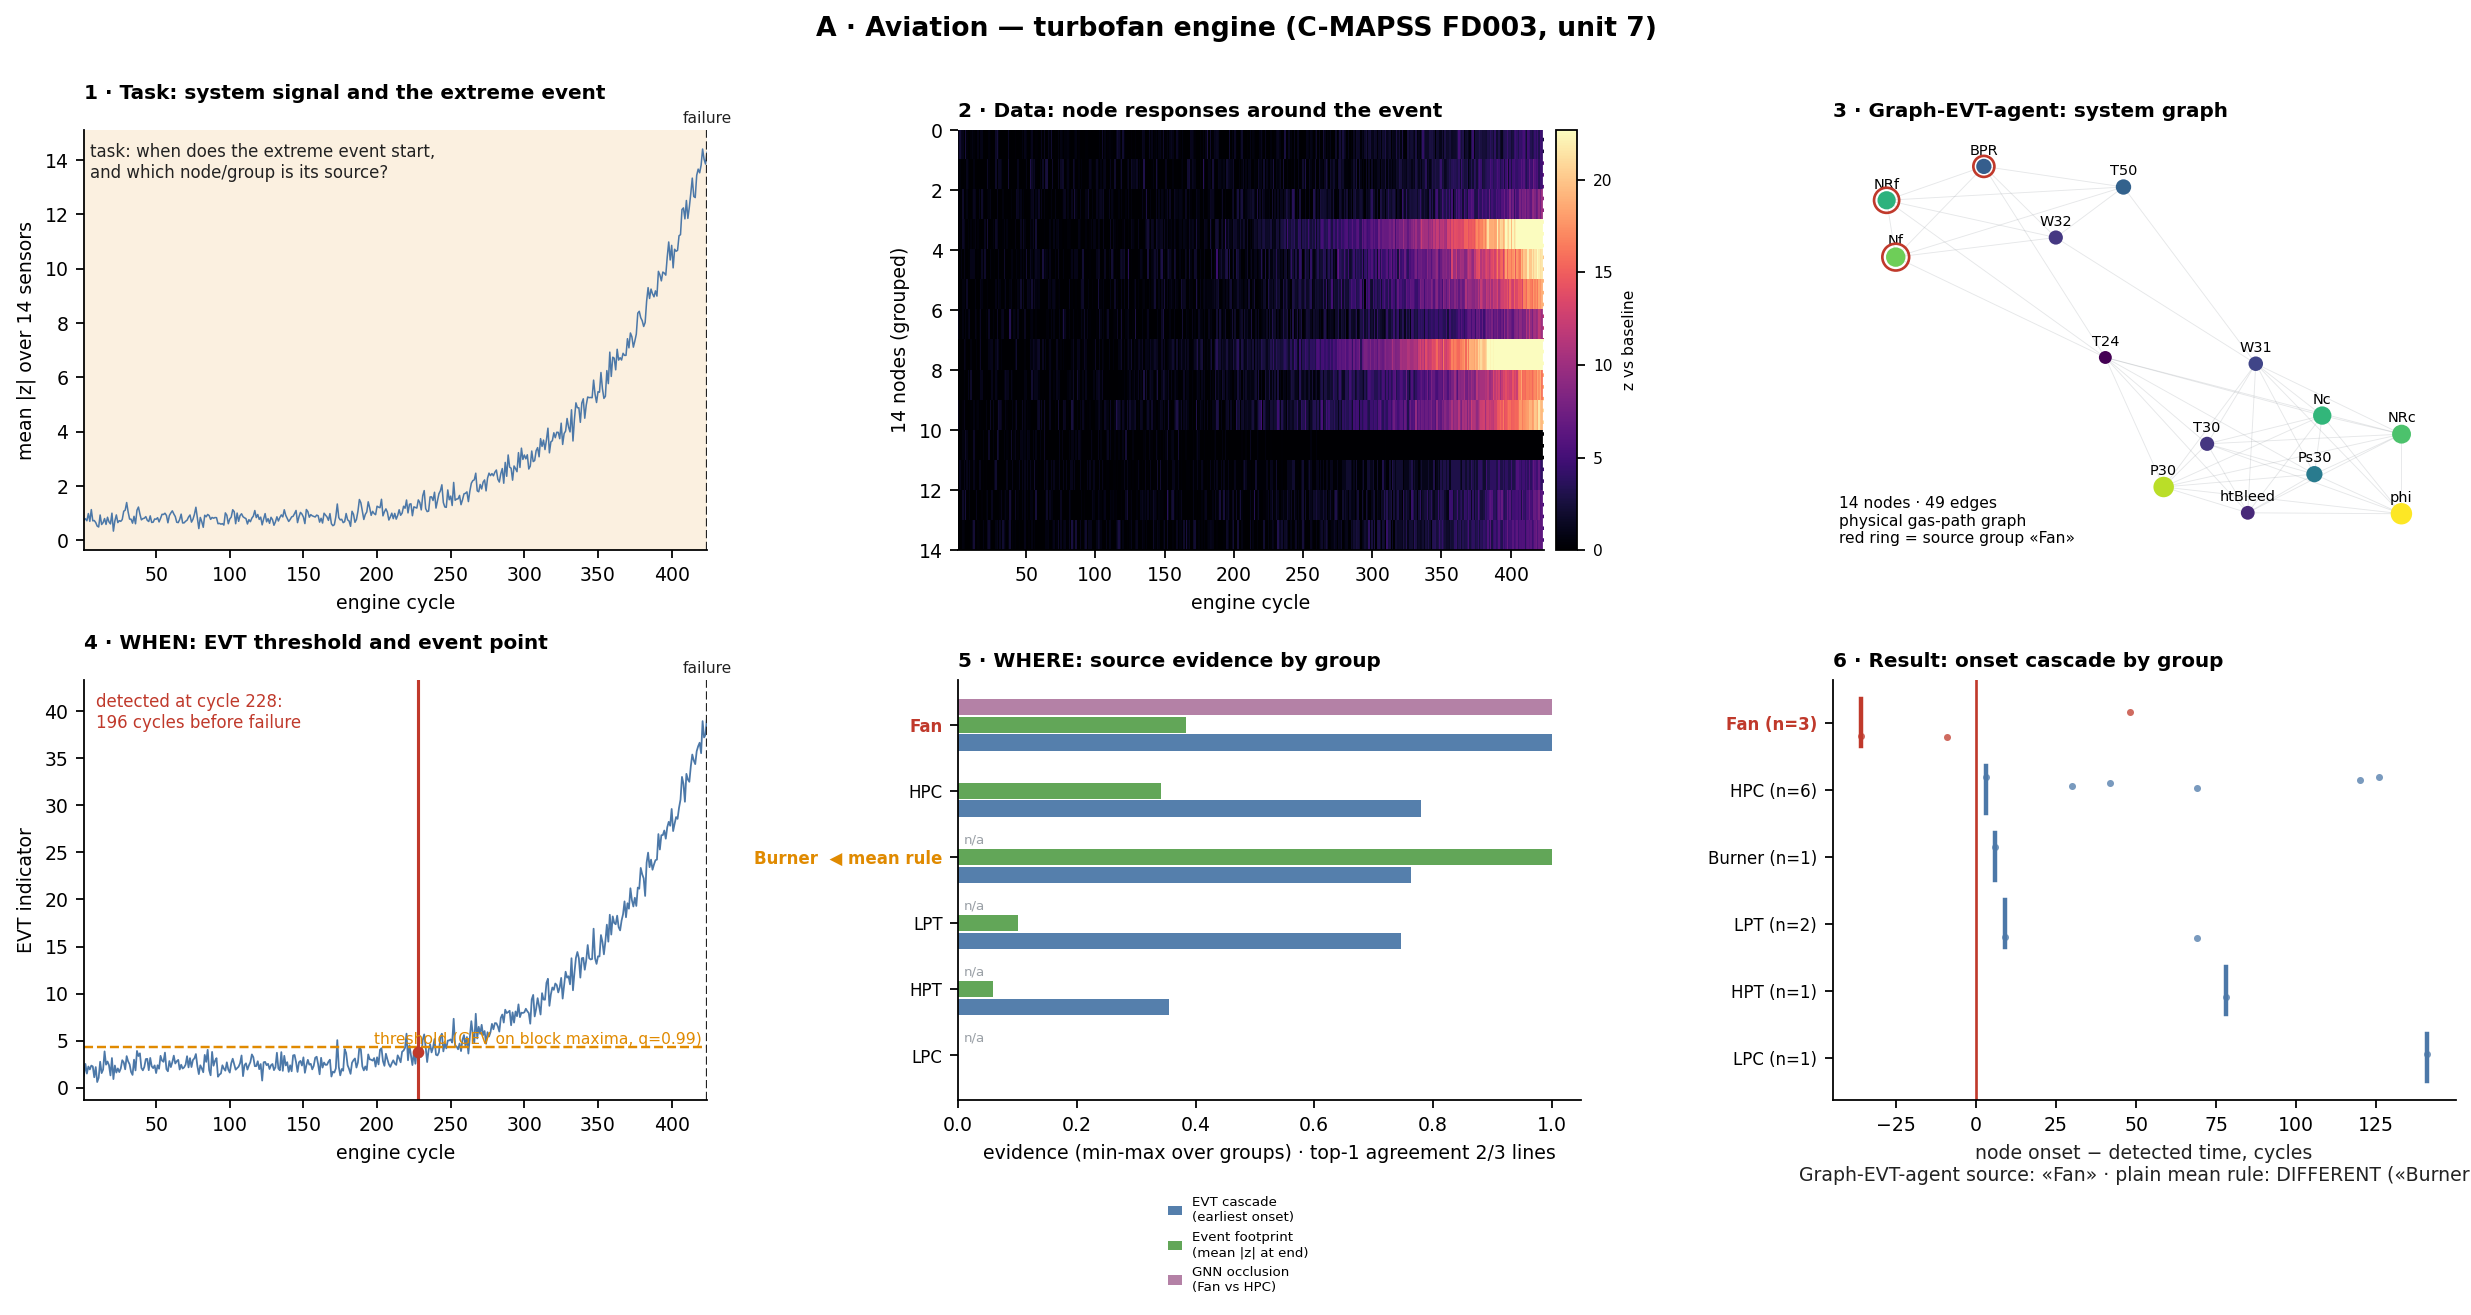
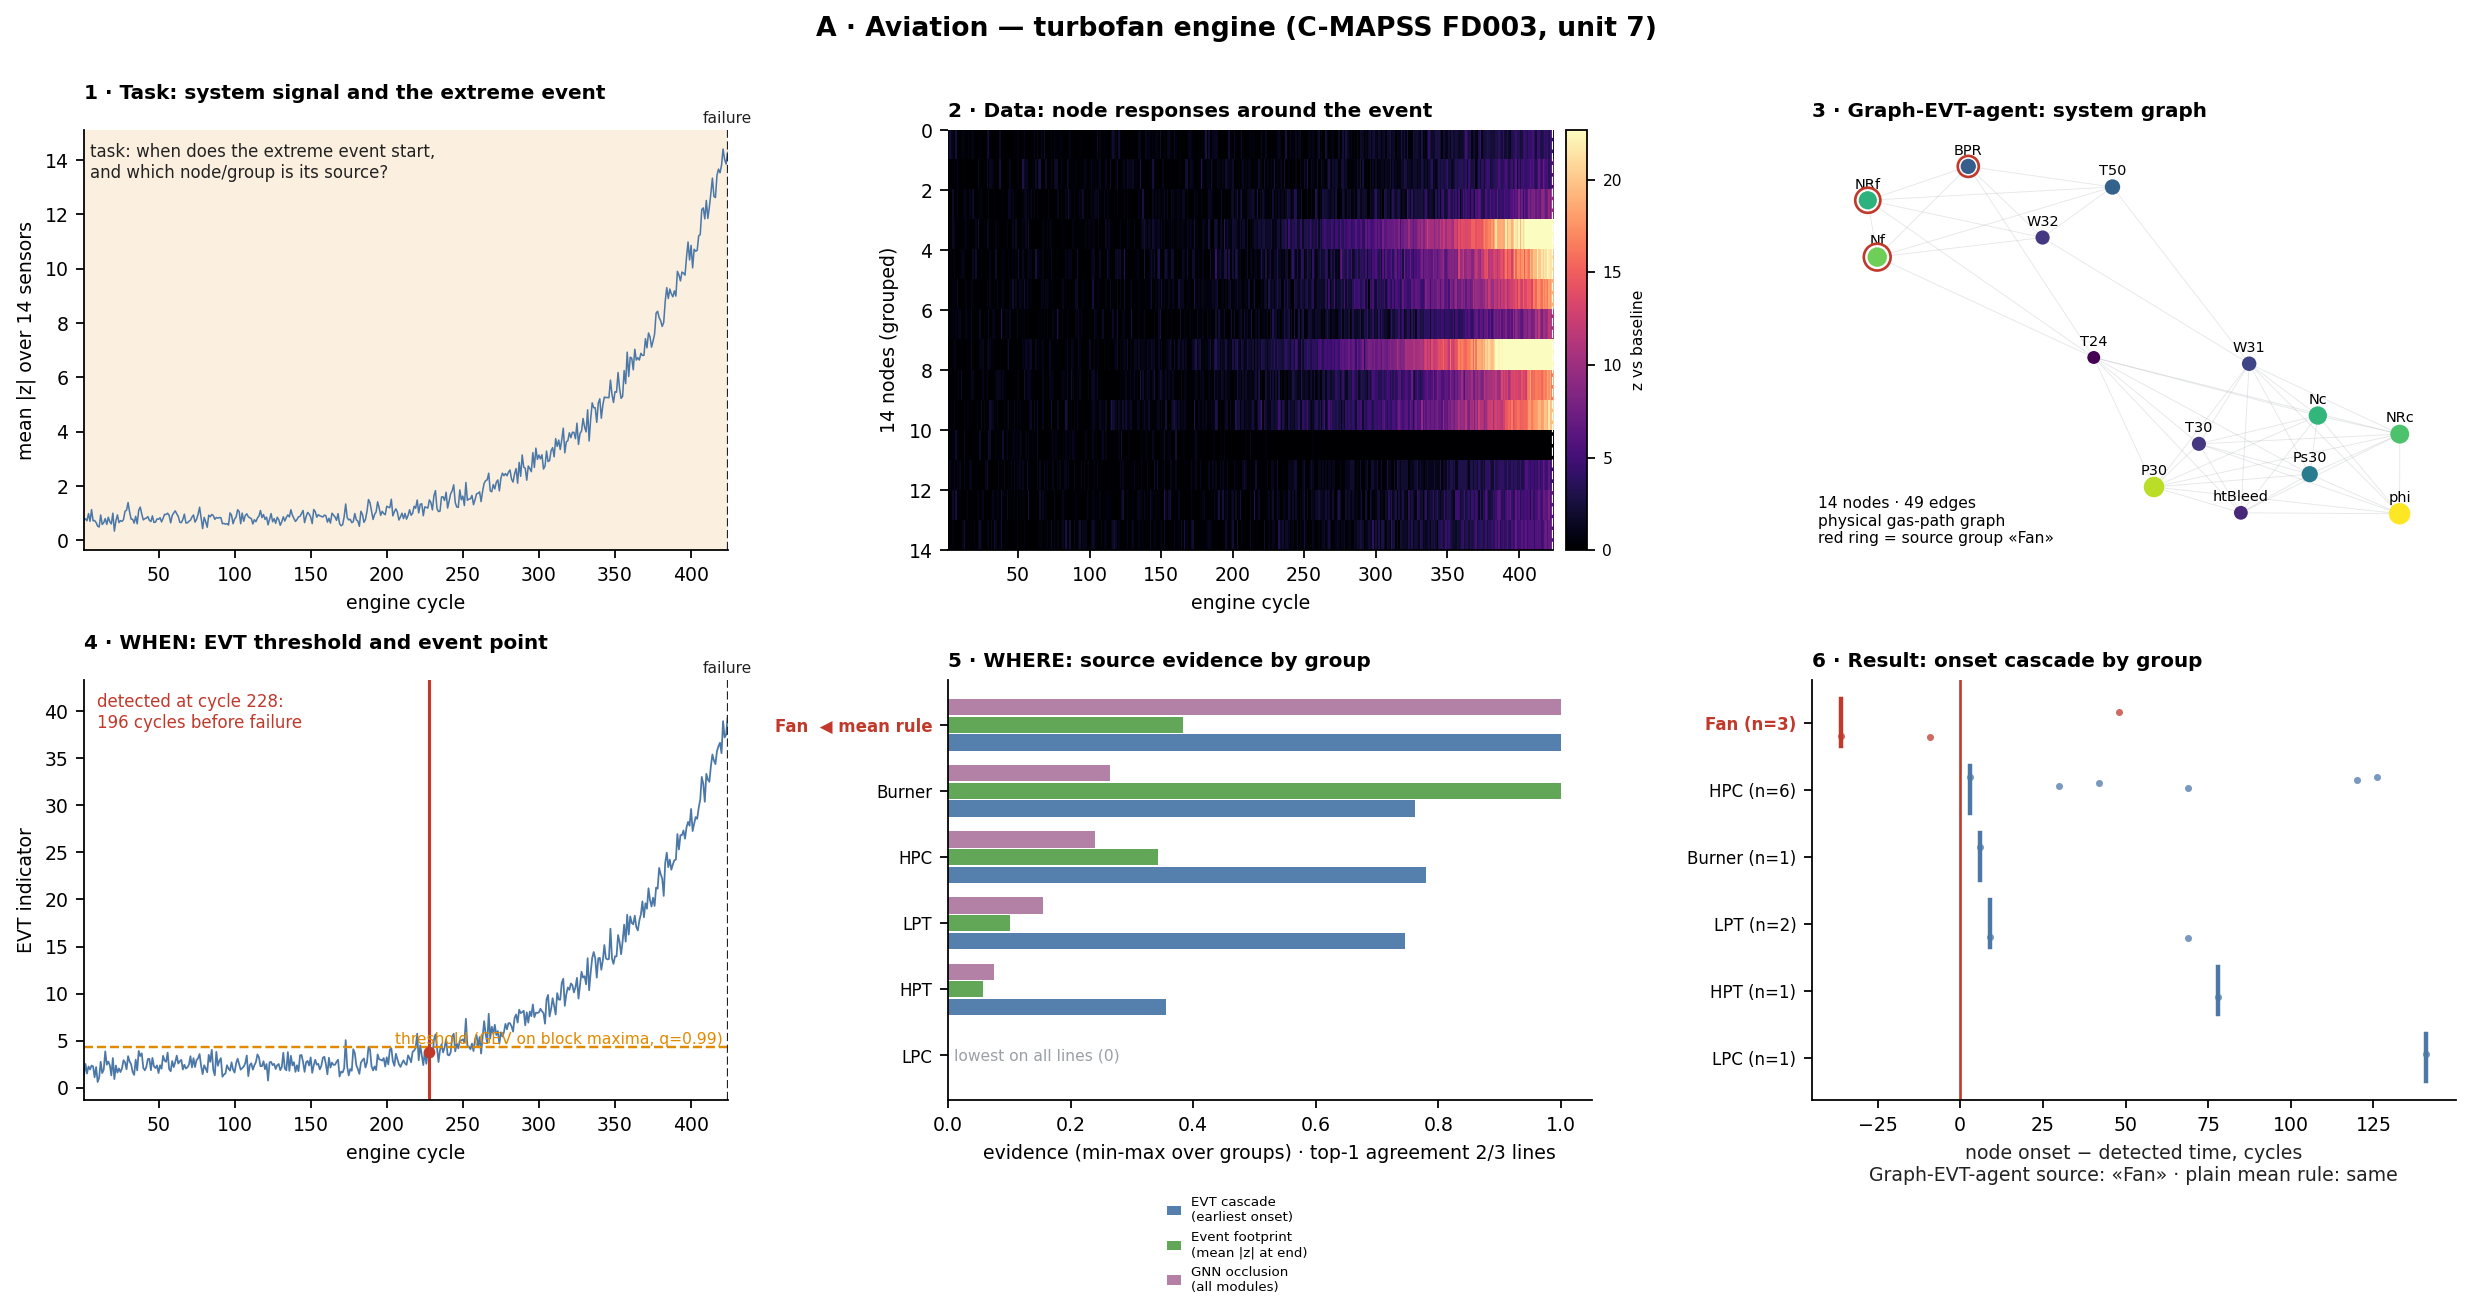
finetune step5

diff --git a/src/aviation_cmapss_pipeline.py b/src/aviation_cmapss_pipeline.py
@@ -246,7 +246,8 @@ def run_gnn_occlusion(F, y, groups, E, seeds, epochs=40):
     from torch_geometric.loader import DataLoader
     GraphGAT, _, _ = C.make_models()
     ei = C.edge_index_from(E, len(S))
-    fan = [S.index(s) for s in S if MOD[s] == "Fan"]; hpc = [S.index(s) for s in S if MOD[s] == "HPC"]
+    mods = sorted(set(MOD.values()))
+    midx = {m: [S.index(s) for s in S if MOD[s] == m] for m in mods}  # узлы-датчики каждого модуля
     acc = {}
     for seed in seeds:
         for tr, te in GroupKFold(5).split(F, y, groups):
@@ -267,17 +268,22 @@ def run_gnn_occlusion(F, y, groups, E, seeds, epochs=40):
             crit = [i for i in te if y[i] == 1]
             with torch.no_grad():
                 for i in crit:
-                    xs = [Fs[i].copy() for _ in range(3)]
-                    xs[1][fan] = zero; xs[2][hpc] = zero
+                    xs = [Fs[i].copy() for _ in range(1 + len(mods))]
+                    for k, m in enumerate(mods):
+                        xs[k + 1][midx[m]] = zero
                     bt = Batch.from_data_list([Data(x=torch.tensor(x), edge_index=ei) for x in xs])
                     lg = net(bt.x, bt.edge_index, bt.batch).numpy()
-                    u = groups[i]
-                    a = acc.setdefault(u, [[], []])
-                    a[0].append((lg[0] - lg[1]) / len(fan)); a[1].append((lg[0] - lg[2]) / len(hpc))
+                    a = acc.setdefault(groups[i], {m: [] for m in mods})
+                    for k, m in enumerate(mods):
+                        a[m].append((lg[0] - lg[k + 1]) / len(midx[m]))
     rows = []
-    for u, (f, h) in acc.items():
-        f, h = float(np.mean(f)), float(np.mean(h))
-        rows.append(dict(unit=u, occl_fan_per_node=f, occl_hpc_per_node=h, gnn_source="Fan" if f > h else "HPC"))
+    for u, a in acc.items():
+        v = {m: float(np.mean(a[m])) for m in mods}
+        # gnn_source — как раньше, сравнение Fan и HPC (две моды деградации FD003); gnn_source_all — по всем модулям
+        tot = {m: v[m] * len(midx[m]) for m in mods}  # суммарная окклюзия модуля (без деления на число его датчиков)
+        rows.append(dict(unit=u, **{f"occl_{m.lower()}_per_node": v[m] for m in mods},
+                         **{f"occl_{m.lower()}_total": tot[m] for m in mods},
+                         gnn_source="Fan" if v["Fan"] > v["HPC"] else "HPC", gnn_source_all=max(tot, key=tot.get)))
     return pd.DataFrame(rows)
 
 

diff --git a/src/case_figures.py b/src/case_figures.py
@@ -94,6 +94,14 @@ def p_graph(ax, c):
     G.add_edges_from(c.edges)
     pos = nx.spring_layout(G, seed=3, k=1.6 / np.sqrt(len(c.nodes)), iterations=150)
     nx.draw_networkx_edges(G, pos, ax=ax, width=0.4, alpha=0.25, edge_color=GREY)
+    # small disconnected components (e.g. airlines in C): emphasise edges and name the members
+    for comp in nx.connected_components(G):
+        if len(comp) < 10 < len(c.nodes):
+            nx.draw_networkx_edges(G.subgraph(comp), pos, ax=ax, width=1.0, alpha=0.8, edge_color=GREY)
+            pts = np.array([pos[i] for i in comp])
+            grp = ", ".join(sorted({str(c.groups[i]) for i in comp}))
+            ax.annotate(f"closed cluster, no links to the rest:\n{', '.join(c.nodes[i] for i in sorted(comp))} ({grp})",
+                        pts.mean(0), xytext=(14, -4), textcoords="offset points", fontsize=6.5, va="top", color=INK)
     resp = np.log1p(np.nan_to_num(c.node_peak))
     src = np.asarray(c.groups) == c.source
     sz = 14 + 6 * resp ** 2 if len(c.nodes) < 50 else 6 + 3 * resp ** 2
@@ -150,6 +158,13 @@ def p_where(ax, c):
         for yy, v in zip(y + (i - (len(cols) - 1) / 2) * h, ev[k]):
             if np.isnan(v):
                 ax.text(0.01, yy, "n/a", fontsize=6, va="center", color=GREY)
+    for yy, row in zip(y, ev[cols].values):  # min-max floor: lowest group on the line, not missing data
+        if (row == 0).all():
+            ax.text(0.01, yy, "lowest on all lines (0)", fontsize=7, va="center", color=GREY)
+        else:
+            for k, v in enumerate(row):
+                if v == 0:
+                    ax.text(0.01, yy + (k - (len(cols) - 1) / 2) * h, "0", fontsize=6, va="center", color=GREY)
     ax.set_yticks(y)
     ax.set_yticklabels([f"{g}  ◀ mean rule" if g == c.source_mean else str(g) for g in ev.index], fontsize=7.5)
     for lab, g in zip(ax.get_yticklabels(), ev.index):

diff --git a/src/case_data.py b/src/case_data.py
@@ -115,8 +115,8 @@ def aviation(unit: int = 7) -> Case:
     end_z = pd.Series(np.abs(Z[-20:].mean(0)), index=mods).groupby(level=0).mean()
     ev["Event footprint (mean |z| at end)"] = _minmax(end_z.reindex(ev.index))
     L = pd.read_csv(REF / "aviation" / "localization_FD003.csv").set_index("unit").loc[unit]
-    gnn = pd.Series({"Fan": L.occl_fan_per_node, "HPC": L.occl_hpc_per_node}).reindex(ev.index)
-    ev["GNN occlusion (Fan vs HPC)"] = _minmax(gnn.dropna()).reindex(ev.index)
+    gnn = pd.Series({m: L[f"occl_{m.lower()}_total"] for m in ev.index})
+    ev["GNN occlusion (all modules)"] = _minmax(gnn)
 
     lo = max(0, det_t - 3 * A.BL * 10)
     c = Case("A", f"A · Aviation — turbofan engine (C-MAPSS FD003, unit {unit})", "cycle")
